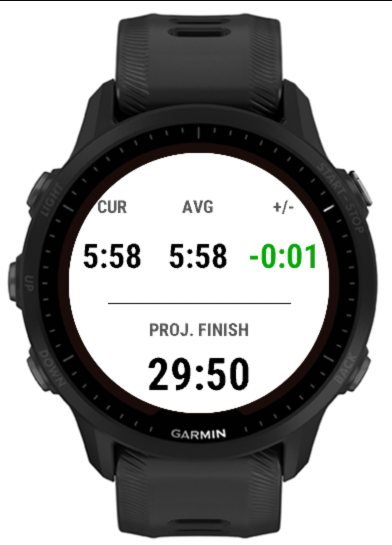
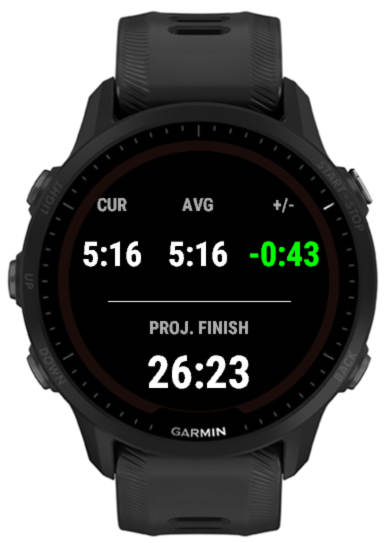
Update readme and images

diff --git a/README.md b/README.md
@@ -7,11 +7,12 @@ Stay locked onto your goal pace with a clean, at-a-glance race screen built for 
 PaceMate shows exactly what you need, when you need it:
 
 - **Current Pace** — your real-time pace
+- **Average Pace** — your average pace across the whole activity so far
 - **Target Pace** — the pace you need to hit your goal
 - **Ahead/Behind** — how far you're ahead of or behind target, updated live
 - **Projected Finish** — your estimated finish time based on current effort
 
-No clutter, no digging through menus mid-race — just the numbers that matter, laid out clearly so you can check your progress with a glance at your wrist.
+No clutter, no digging through menus mid-race — just the numbers that matter, laid out clearly so you can check your progress with a glance at your wrist. Every field except Current Pace can be turned on or off, and whatever's left grows to fill the space.
 
 <img src="resources/images/ahead-target.png" width="220" alt="PaceMate data field showing current pace, target pace, ahead/behind delta, and projected finish time">
 
@@ -27,7 +28,7 @@ PaceMate is a data field, so it needs to be added to a data screen on a run prof
 
 1. From the watch face, press **START/ENTER** and select **Run** (or your preferred running activity).
 2. Before starting, scroll to a data screen and hold **MENU** to edit it.
-3. Select **Edit Layout** and choose the **1-field** layout — PaceMate is dense enough to stand alone and already shows pace, target, delta, and finish time together, so a multi-field layout just wastes space.
+3. Select **Edit Layout** and choose the **1-field** layout — PaceMate is dense enough to stand alone and already shows pace, delta, and finish time together, so a multi-field layout just wastes space.
 4. Pick **PaceMate** from the Connect IQ Fields section for that field slot.
 
 ### 3. Configure it
@@ -52,11 +53,23 @@ Fully configurable, right on your watch. Set your race distance, target finish t
 
 **From your phone:** prefer to set it up beforehand? Open Garmin Connect Mobile → **Devices** → your watch → **Data Fields / Connect IQ Store** → PaceMate → **Settings**, and enter the same three values. Changes sync to the watch automatically.
 
+**Choosing which fields show:** which fields appear on screen is configured from your phone only — Garmin Connect Mobile/Express → **Devices** → your watch → **Data Fields / Connect IQ Store** → PaceMate → **Settings**:
+
+| Field            | Default |
+| ---------------- | ------- |
+| Current Pace     | always on |
+| Average Pace     | on      |
+| Target Pace      | off     |
+| Ahead/Behind     | on      |
+| Projected Finish | on      |
+
+Turn a field off and the remaining fields grow to fill the space, so the layout stays balanced whatever combination you pick.
+
 ### 4. Run
 
 Start your activity as normal. Current pace needs about 100m of GPS-tracked movement to settle into a steady reading — that's by design, so it reflects your real recent pace rather than jumpy instantaneous GPS speed.
 
-The Ahead/Behind delta turns green when you're running faster than target pace and red when you're slower. Projected Finish updates continuously from your current pace, so it's a live "if you keep this up" estimate.
+The Ahead/Behind delta turns green when you're running faster than target pace and red when you're slower — this compares against your target pace even if the Target Pace field itself is turned off. Projected Finish updates continuously from your current pace, so it's a live "if you keep this up" estimate.
 
 Whether you're chasing a PB, pacing a training run, or just want a clearer view of how the race is unfolding, PaceMate keeps you focused on what matters: hitting your target.
 
